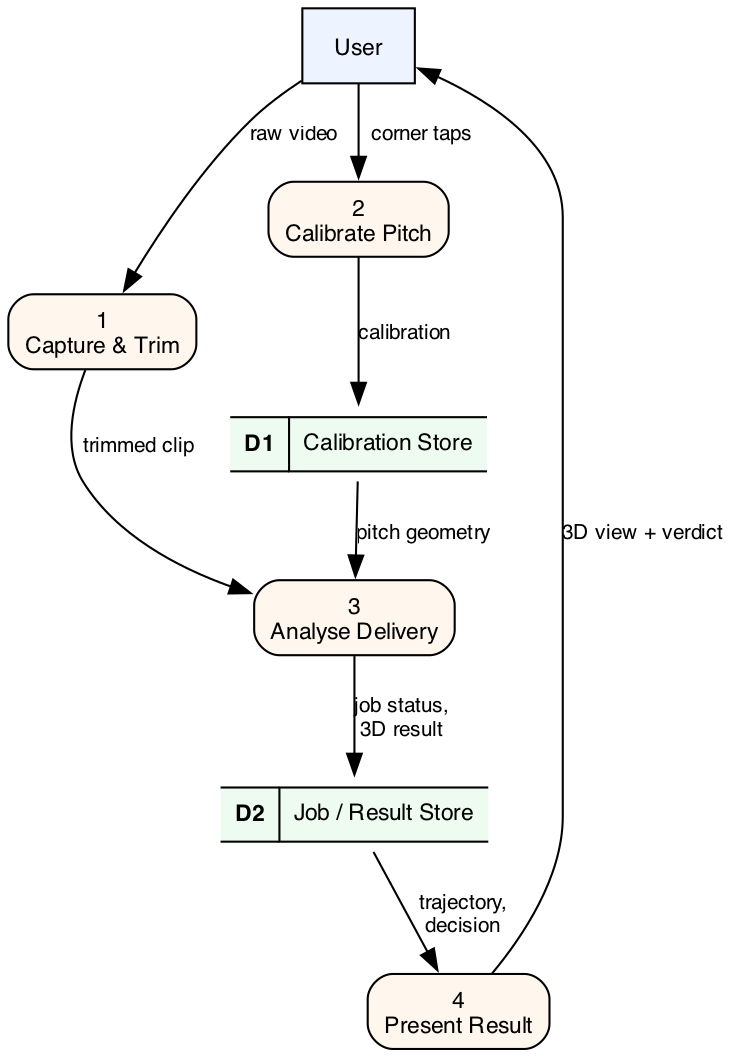
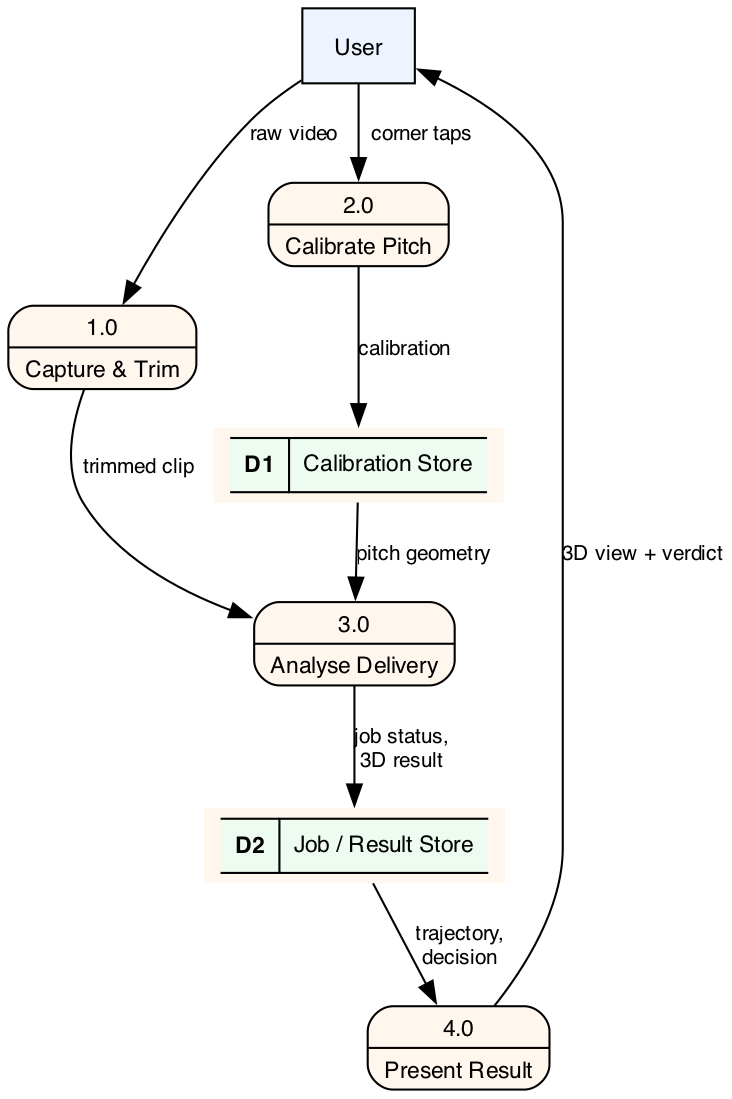
fix

diff --git a/dump/report_docs/make_diagrams.py b/dump/report_docs/make_diagrams.py
@@ -249,8 +249,8 @@ DFD0 = _HEAD.format(rankdir="LR") + """
   node [fontsize=11];
   user  [shape=box, style=filled, fillcolor="#eef4ff", label="User"];
   fbase [shape=box, style=filled, fillcolor="#eef4ff", label="Firebase"];
-  sys   [shape=box, style="rounded,filled", fillcolor="#fff6ee", width=1.8,
-         height=1.0, label="0\\nPocketDRS System"];
+  sys   [shape=Mrecord, style=filled, fillcolor="#fff6ee",
+         label="{ 0 | PocketDRS System }"];
 
   user -> sys [label="delivery video,\\ncalibration taps"];
   sys -> user [label="LBW decision,\\n3D visualisation"];
@@ -268,10 +268,11 @@ DFD0 = _HEAD.format(rankdir="LR") + """
 DFD1 = _HEAD.format(rankdir="TB") + """
   node [fontsize=11];
   user  [shape=box, style=filled, fillcolor="#eef4ff", label="User"];
-  p1 [shape=box, style="rounded,filled", fillcolor="#fff6ee", label="1\\nCapture & Trim"];
-  p2 [shape=box, style="rounded,filled", fillcolor="#fff6ee", label="2\\nCalibrate Pitch"];
-  p3 [shape=box, style="rounded,filled", fillcolor="#fff6ee", label="3\\nAnalyse Delivery"];
-  p4 [shape=box, style="rounded,filled", fillcolor="#fff6ee", label="4\\nPresent Result"];
+  node [shape=Mrecord, style=filled, fillcolor="#fff6ee"];
+  p1 [label="{ 1.0 | Capture & Trim }"];
+  p2 [label="{ 2.0 | Calibrate Pitch }"];
+  p3 [label="{ 3.0 | Analyse Delivery }"];
+  p4 [label="{ 4.0 | Present Result }"];
   d1 [shape=plaintext, label=""" + _datastore("D1", "Calibration Store") + """];
   d2 [shape=plaintext, label=""" + _datastore("D2", "Job / Result Store") + """];
 
@@ -296,14 +297,11 @@ DFD1 = _HEAD.format(rankdir="TB") + """
 PHYSICAL_DFD = _HEAD.format(rankdir="TB") + """
   node [fontsize=11];
   user [shape=box, style=filled, fillcolor="#eef4ff", label="User\\n(smartphone)"];
-  p1 [shape=box, style="rounded,filled", fillcolor="#fff6ee",
-      label="1\\nFlutter Mobile App\\n(Android / iOS)"];
-  p2 [shape=box, style="rounded,filled", fillcolor="#fff6ee",
-      label="2\\nFastAPI Service\\n(Google Cloud Run)"];
-  p3 [shape=box, style="rounded,filled", fillcolor="#fff6ee",
-      label="3\\nCV Pipeline\\n(OpenCV / SciPy, Cloud Run)"];
-  p4 [shape=box, style="rounded,filled", fillcolor="#fff6ee",
-      label="4\\nThree.js WebView Viewer\\n(on device)"];
+  node [shape=Mrecord, style=filled, fillcolor="#fff6ee"];
+  p1 [label="{ 1.0 | Flutter Mobile App\\n(Android / iOS) }"];
+  p2 [label="{ 2.0 | FastAPI Service\\n(Google Cloud Run) }"];
+  p3 [label="{ 3.0 | CV Pipeline\\n(OpenCV / SciPy, Cloud Run) }"];
+  p4 [label="{ 4.0 | Three.js WebView Viewer\\n(on device) }"];
   d1 [shape=plaintext, label=""" + _datastore("D1", "Cloud Firestore") + """];
   d2 [shape=plaintext, label=""" + _datastore("D2", "Cloud Storage (video files)") + """];
 

diff --git a/dump/report_docs/pocketdrs_report.tex b/dump/report_docs/pocketdrs_report.tex
@@ -34,7 +34,7 @@
   {\normalfont\fontsize{16}{19}\bfseries\centering}
   {\MakeUppercase{\chaptertitlename}\ \thechapter}
   {0.6em}
-  {}
+  {\MakeUppercase}
 \titlespacing*{\chapter}{0pt}{0pt}{24pt}
 \titleformat{\section}
   {\normalfont\fontsize{14}{17}\bfseries}{\thesection}{1em}{}